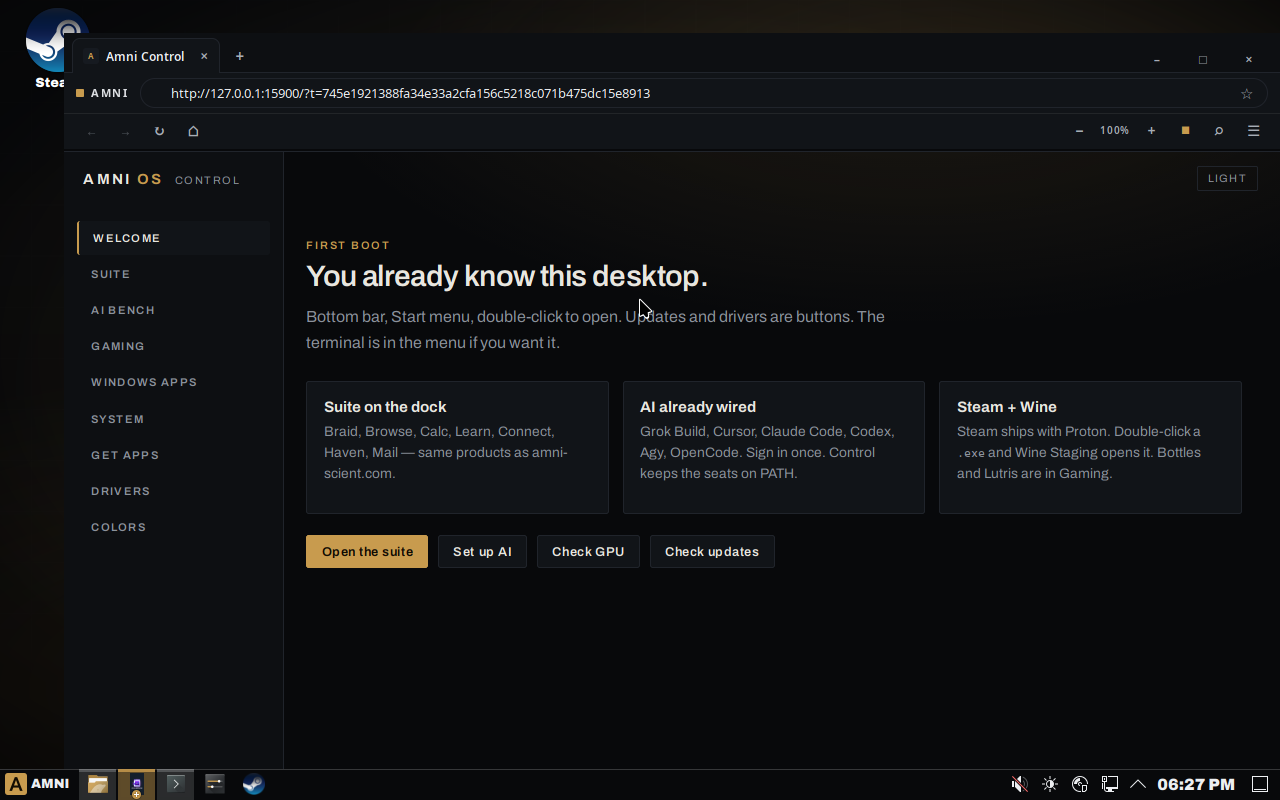
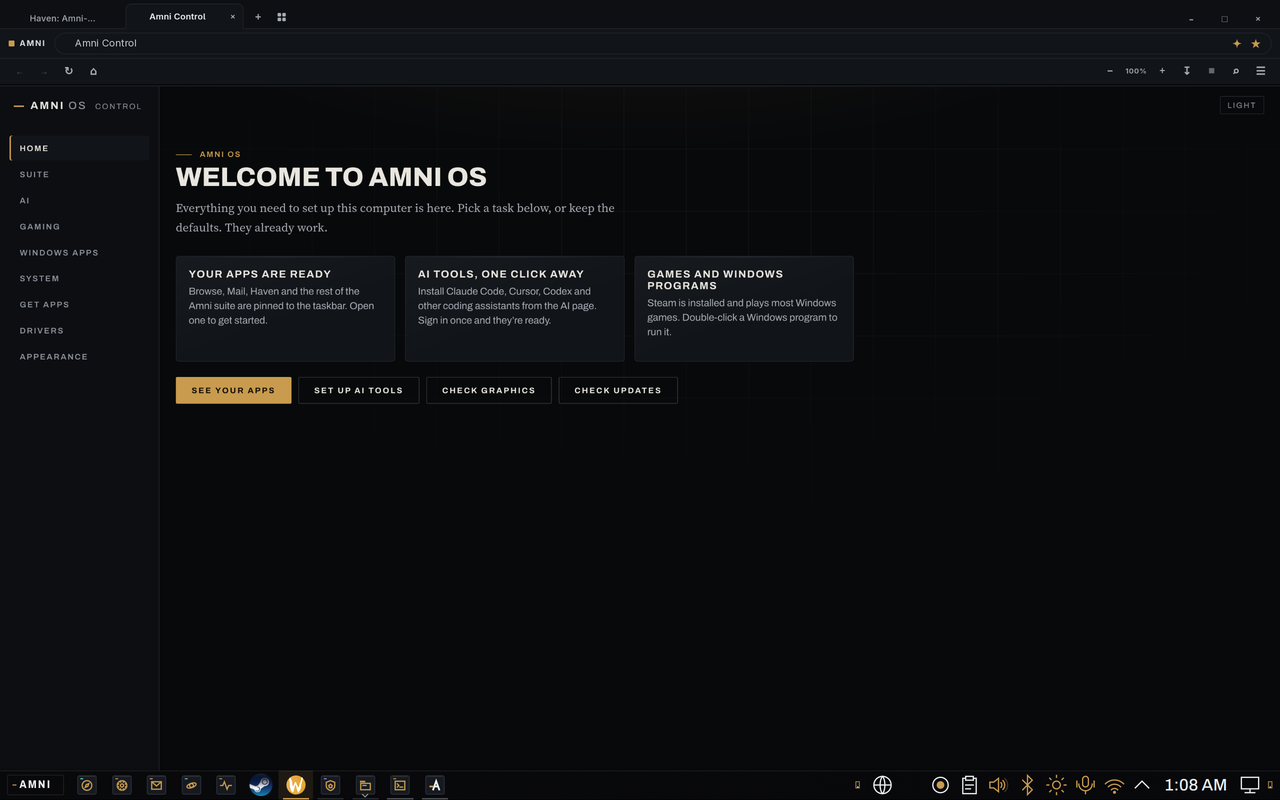
Refresh the Amni OS desktop and Control screenshots.

diff --git a/amni-os.html b/amni-os.html
@@ -11,13 +11,13 @@
 <meta property="og:description" content="Arch + Plasma 6. Start menu, Steam, Wine, local AI, Amni-Browse.">
 <meta property="og:type" content="website">
 <meta property="og:url" content="https://amni-scient.com/amni-os">
-<meta property="og:image" content="https://amni-scient.com/assets/os/desktop.png">
-<meta property="og:image:width" content="1200">
-<meta property="og:image:height" content="630">
+<meta property="og:image" content="https://amni-scient.com/assets/os/desktop.png?v=20260922">
+<meta property="og:image:width" content="1280">
+<meta property="og:image:height" content="800">
 <meta name="twitter:card" content="summary_large_image">
 <meta name="twitter:title" content="Amni OS &mdash; Leave Windows without learning a shell">
 <meta name="twitter:description" content="Arch + Plasma 6. Start menu, Steam, Wine, local AI, Amni-Browse.">
-<meta name="twitter:image" content="https://amni-scient.com/assets/os/desktop.png">
+<meta name="twitter:image" content="https://amni-scient.com/assets/os/desktop.png?v=20260922">
 <link rel="canonical" href="https://amni-scient.com/amni-os">
 <script type="application/ld+json">{"@context":"https://schema.org","@type":"SoftwareApplication","name":"Amni OS","url":"https://amni-scient.com/amni-os.html","description":"Arch + Plasma 6 desktop for people leaving Windows.","applicationCategory":"OperatingSystem","operatingSystem":"Linux","offers":{"@type":"Offer","price":"0","priceCurrency":"USD"},"author":{"@type":"Organization","name":"Amniscient, LLC","url":"https://amni-scient.com"}}</script>
 <link rel="stylesheet" href="css/style.css?v=b261">
@@ -108,7 +108,7 @@
 <p class="ptile-line">Start menu, bottom bar, double-click. Steam, Wine, and a local model are already on it.</p>
 <ul class="ptile-feats"><li>Browse, Haven, Mail, Space on the dock</li><li>Control for drivers and updates</li><li>Restore points you can boot</li><li>Installs next to Windows</li></ul>
 </div>
-<div class="ptile-media"><img src="assets/os/desktop.png" alt="Amni OS desktop with the gold clock and the bottom bar" loading="lazy"></div>
+<div class="ptile-media"><img src="assets/os/desktop.png?v=20260922" alt="Amni OS desktop with the gold clock and the bottom bar" loading="lazy"></div>
 </div>
 <section>
 <h2>ON THE IMAGE</h2>
@@ -147,7 +147,7 @@
 </section>
 <section>
 <h2>CONTROL</h2>
-<div class="ptile"><div class="ptile-media"><img src="assets/os/control.png" alt="Amni Control inside Amni-Browse" loading="lazy"></div><div class="ptile-copy"><p class="ptile-line">Drivers, updates, printers, colors. Asks for a password when it needs one.</p><ul class="ptile-feats"><li>GPU drivers</li><li>Printers, sharing, restore, dual boot</li><li>Discover, Flathub, Ubuntu, Fedora</li><li>Dark, light, eight accents</li></ul></div></div>
+<div class="ptile"><div class="ptile-media"><img src="assets/os/control.png?v=20260922" alt="Amni Control inside Amni-Browse" loading="lazy"></div><div class="ptile-copy"><p class="ptile-line">Drivers, updates, printers, colors. Asks for a password when it needs one.</p><ul class="ptile-feats"><li>GPU drivers</li><li>Printers, sharing, restore, dual boot</li><li>Discover, Flathub, Ubuntu, Fedora</li><li>Dark, light, eight accents</li></ul></div></div>
 </section>
 <section>
 <h2>SPEC</h2>
